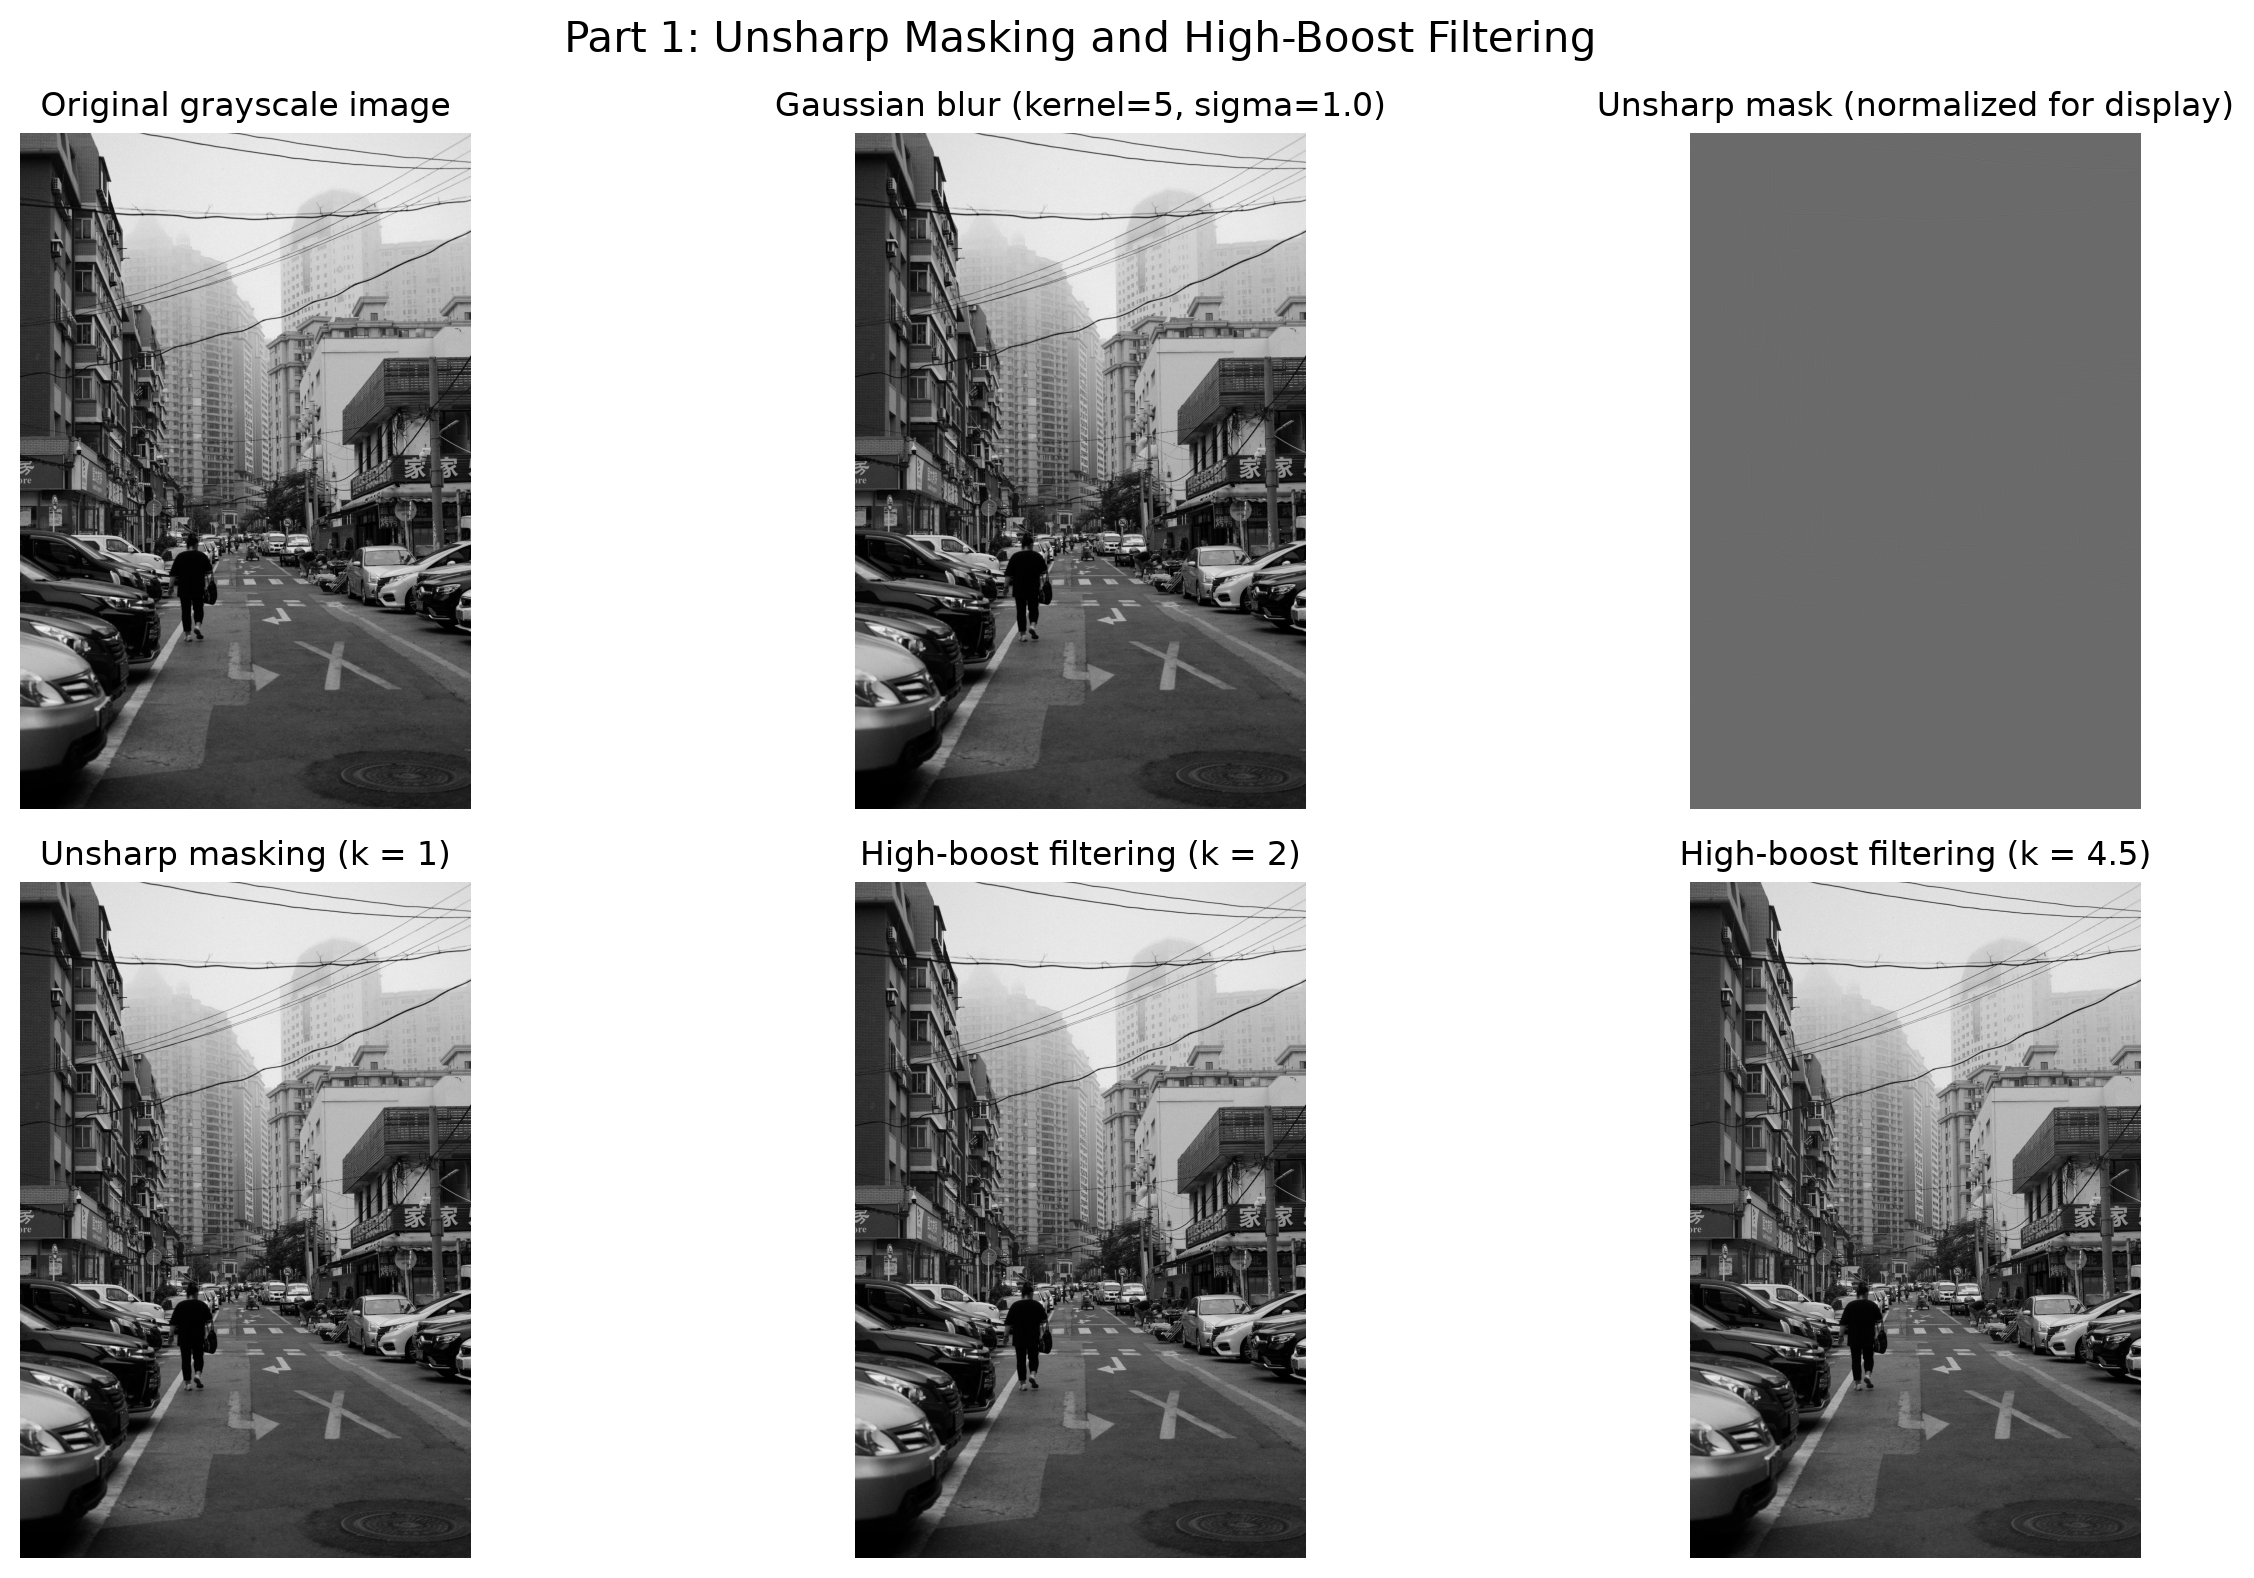
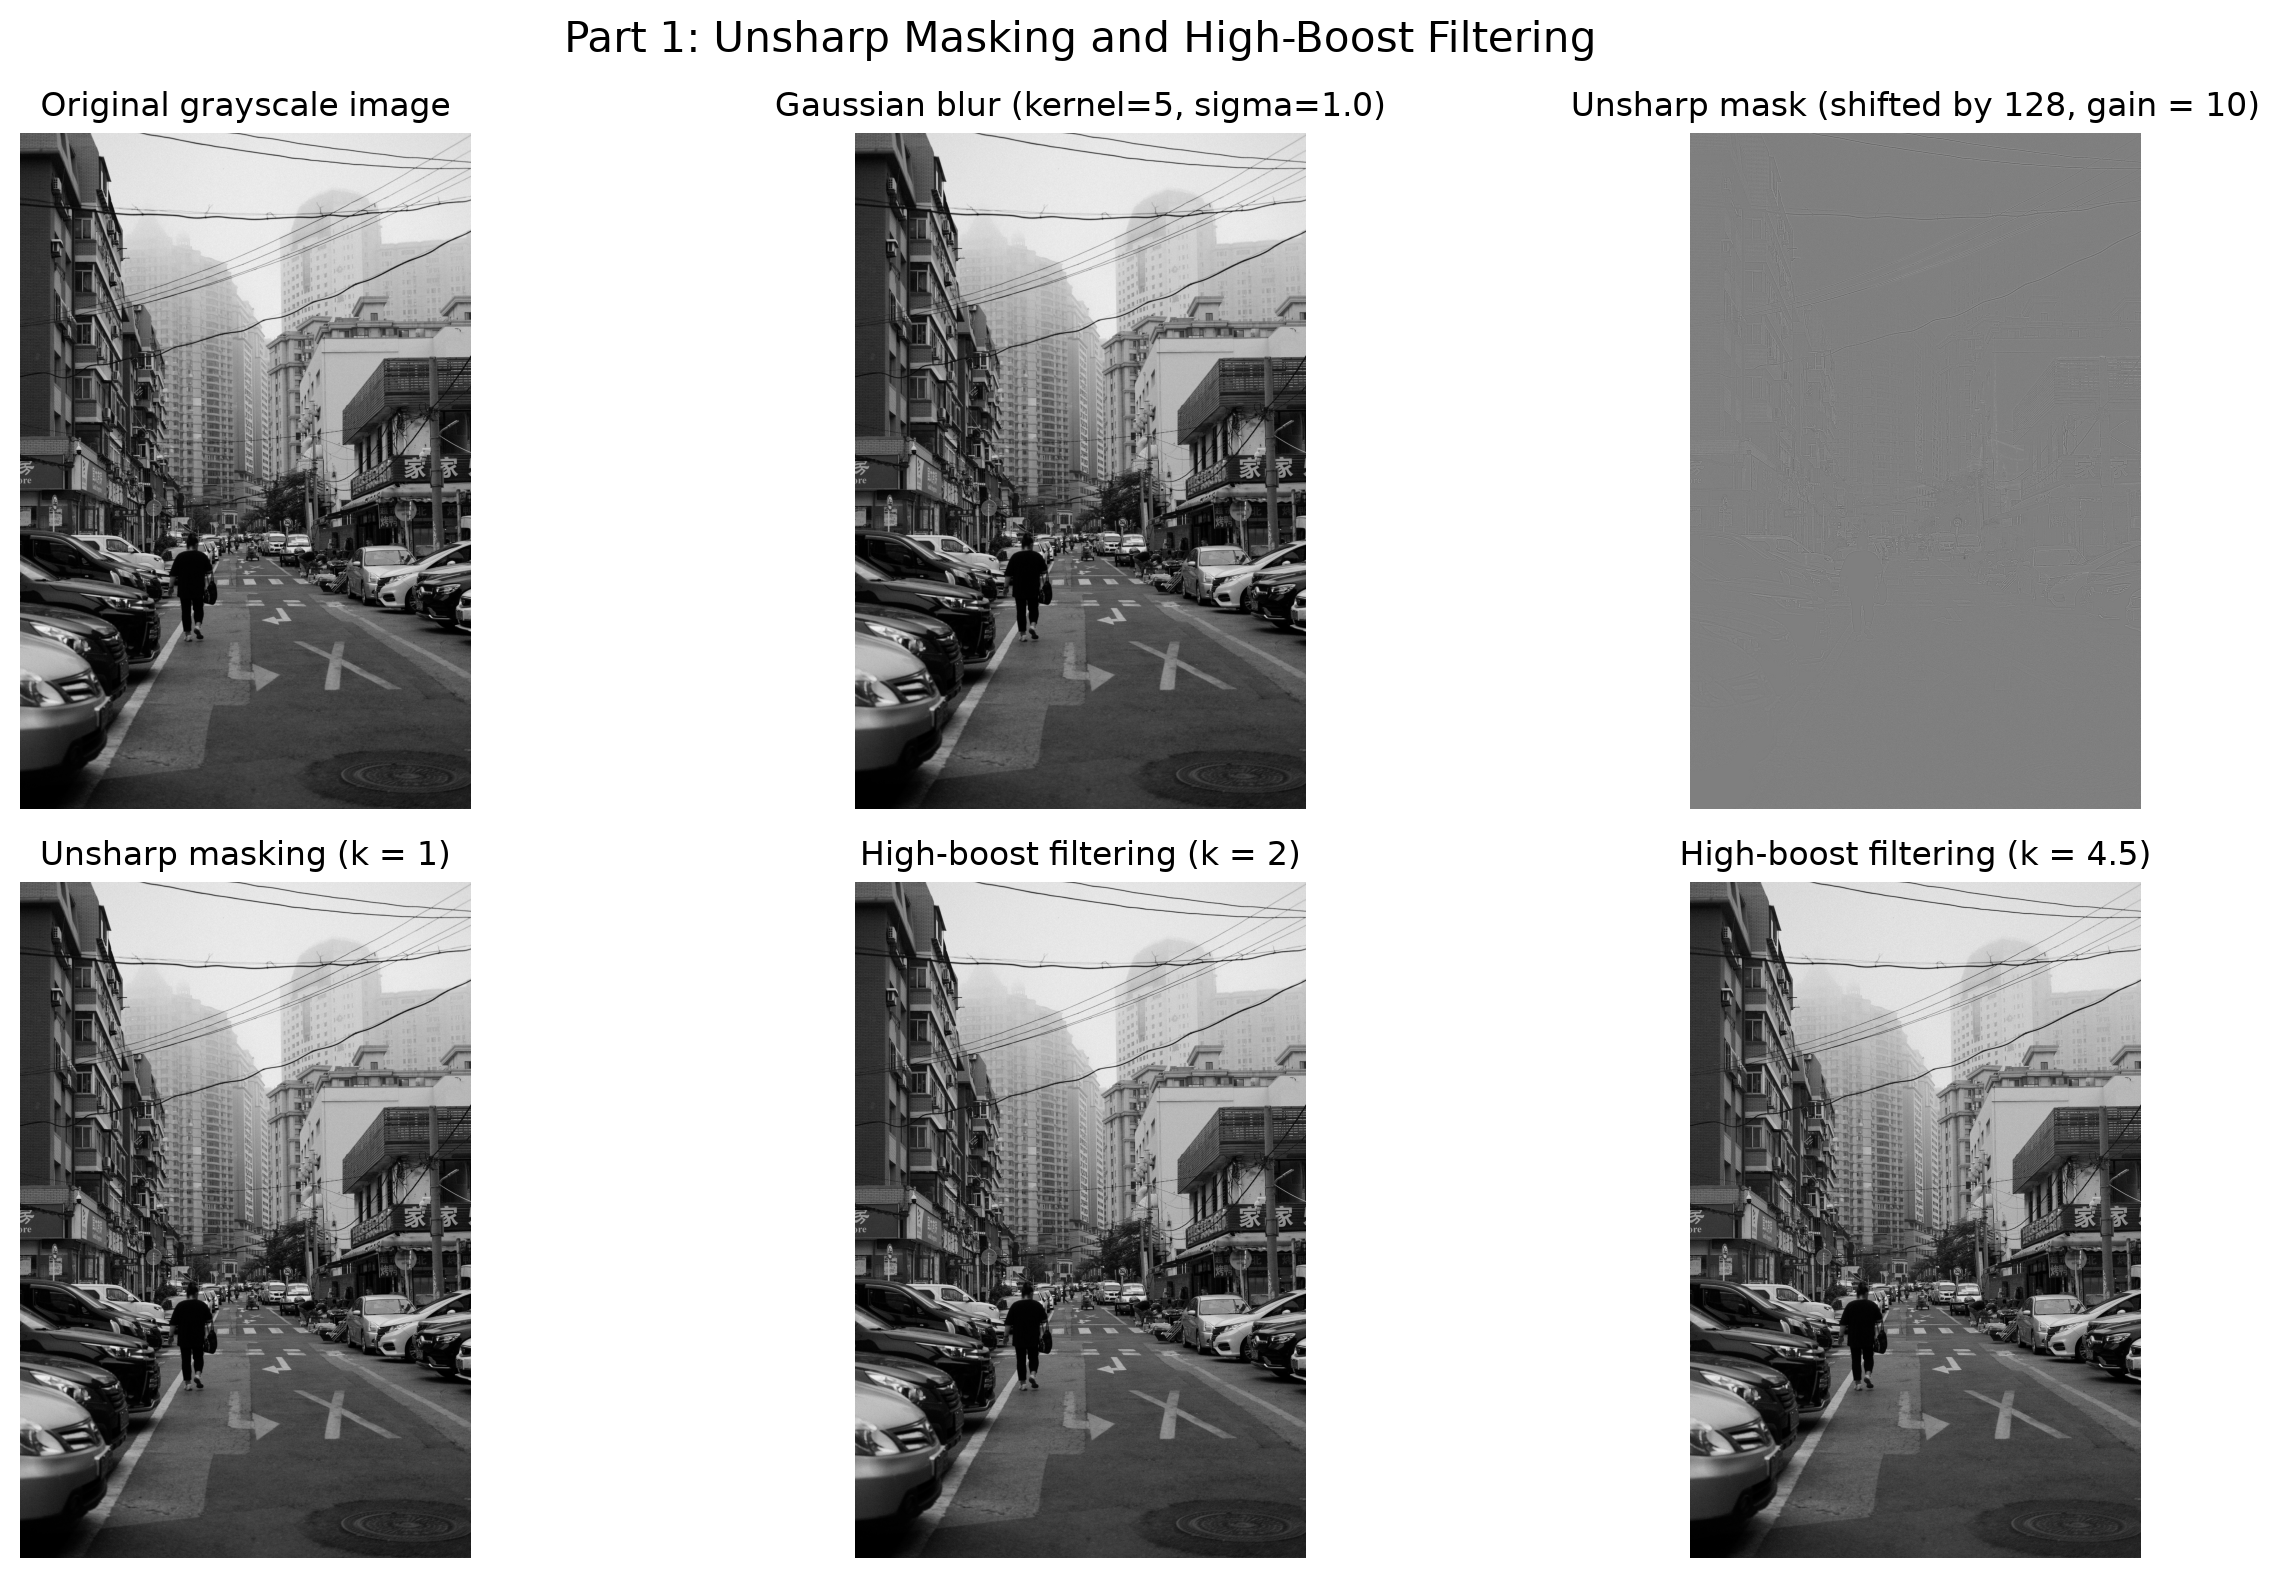
Updated assignment 2 final
Final update to assignment 2

diff --git a/Assignment_2/assignment2.py b/Assignment_2/assignment2.py
@@ -66,16 +66,10 @@ def part1_unsharp_and_highboost(image: np.ndarray) -> None:
     # Step B: subtract the blurred image from the original.
     # The mask contains positive and negative values, especially near edges.
     unsharp_mask = original - blurred
-    # The raw mask is not directly displayed well as a normal grayscale image
-    # because it contains negative values. Normalize it to 0..255 for display.
-    mask_min = float(unsharp_mask.min())
-    mask_max = float(unsharp_mask.max())
-    if mask_max > mask_min:
-        mask_display = (
-            (unsharp_mask - mask_min) / (mask_max - mask_min) * 255.0
-        ).astype(np.uint8)
-    else:
-        mask_display = np.zeros_like(image, dtype=np.uint8)
+    # The mask has negative values, so shift it to mid-gray (128) for display.
+    # A gain of 10 makes the faint edge responses visible.
+    MASK_GAIN = 10
+    mask_display = np.clip(128 + MASK_GAIN * unsharp_mask, 0, 255).astype(np.uint8)
     # Step C: sharpen using g = f + k * mask.
     # k=1 is standard unsharp masking; k>1 is high-boost filtering.
     sharpened = {}
@@ -97,7 +91,7 @@ def part1_unsharp_and_highboost(image: np.ndarray) -> None:
         (image, "Original grayscale image"),
         (np.clip(blurred, 0, 255).astype(np.uint8),
          f"Gaussian blur (kernel={BLUR_KERNEL_SIZE}, sigma={BLUR_SIGMA})"),
-        (mask_display, "Unsharp mask (normalized for display)"),
+        (mask_display, f"Unsharp mask (shifted by 128, gain = {MASK_GAIN})"),
         (sharpened[1.0], "Unsharp masking (k = 1)"),
         (sharpened[2.0], "High-boost filtering (k = 2)"),
         (sharpened[4.5], "High-boost filtering (k = 4.5)"),
@@ -140,11 +134,33 @@ def part2_canny_edge_detection(image: np.ndarray) -> None:
         save_grayscale(OUTPUT_DIR / filename, edges)
         results.append((config, edges))
         print(f"Saved {filename}")
+    # --- NMS and hysteresis demonstration (sigma = 0.8) ---
+    smoothed = cv2.GaussianBlur(image, (5, 5), 0.8)
+    gx = cv2.Sobel(smoothed, cv2.CV_32F, 1, 0)
+    gy = cv2.Sobel(smoothed, cv2.CV_32F, 0, 1)
+    mag = cv2.magnitude(gx, gy)
+    no_nms = (mag > 150).astype(np.uint8) * 255   # threshold only, no NMS
+    single = cv2.Canny(smoothed, 150, 150)        # one threshold, no hysteresis linking
+    double = cv2.Canny(smoothed, 50, 150)         # full Canny
+    demo = [
+        (no_nms, "Gradient magnitude > 150 (no NMS)"),
+        (single, "Canny, T_low = T_high = 150 (no hysteresis)"),
+        (double, "Canny, [50, 150] (NMS + hysteresis)"),
+    ]
+    fig, axes = plt.subplots(1, 3, figsize=(15, 8))
+    for ax, (img, title) in zip(axes, demo):
+        ax.imshow(255 - img, cmap="gray", vmin=0, vmax=255)
+        ax.set_title(title, fontsize=10)
+        ax.axis("off")
+    fig.suptitle("Role of non-maximum suppression and hysteresis", fontsize=14)
+    fig.tight_layout()
+    fig.savefig(OUTPUT_DIR / "part2_nms_hysteresis.png", dpi=200, bbox_inches="tight")
+    plt.close(fig)
     # Display only the six Canny edge maps in a 2-by-3 grid.
     # The original grayscale image is already shown in the Part 1 figure.
-    fig, axes = plt.subplots(2, 3, figsize=(15, 8))
+    fig, axes = plt.subplots(2, 3, figsize=(15, 12))
     for ax, (config, edges) in zip(axes.flat, results):
-        ax.imshow(edges, cmap="gray", vmin=0, vmax=255)
+        ax.imshow(255 - edges, cmap="gray", vmin=0, vmax=255)
         ax.set_title(
             f"σ={config['sigma']}, "
             f"Tlow={config['low']}, Thigh={config['high']}",
